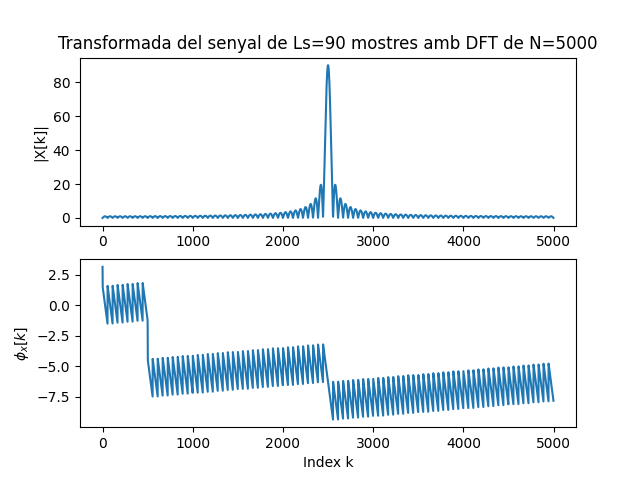
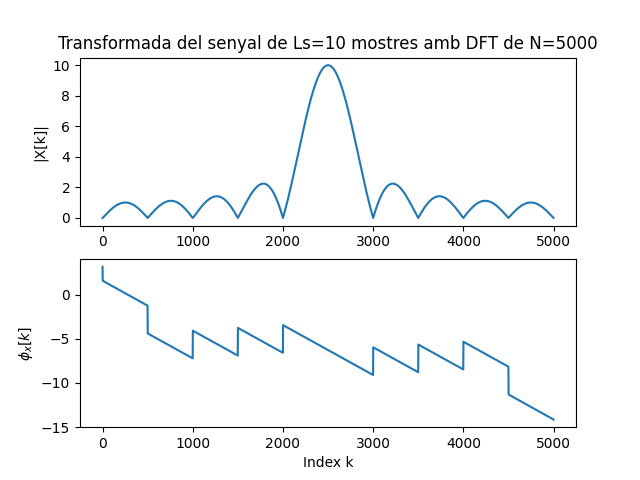
pr0

diff --git a/asa_codi.py b/asa_codi.py
@@ -91,7 +91,7 @@ t=Tm* np.arange(len(x_r))
 sf.write('nom_fitxerej2.wav', x_r, fm)   
 
 #  - Insereix a continuació una gràfica que mostri 5 períodes del senyal i la seva transformada.
-fx=440
+fx=4000
 Tx=1/fx                                   # Període del senyal
 Ls=int(fm*5*Tx)                           # Nombre de mostres corresponents a 5 períodes de la sinusoide
 
